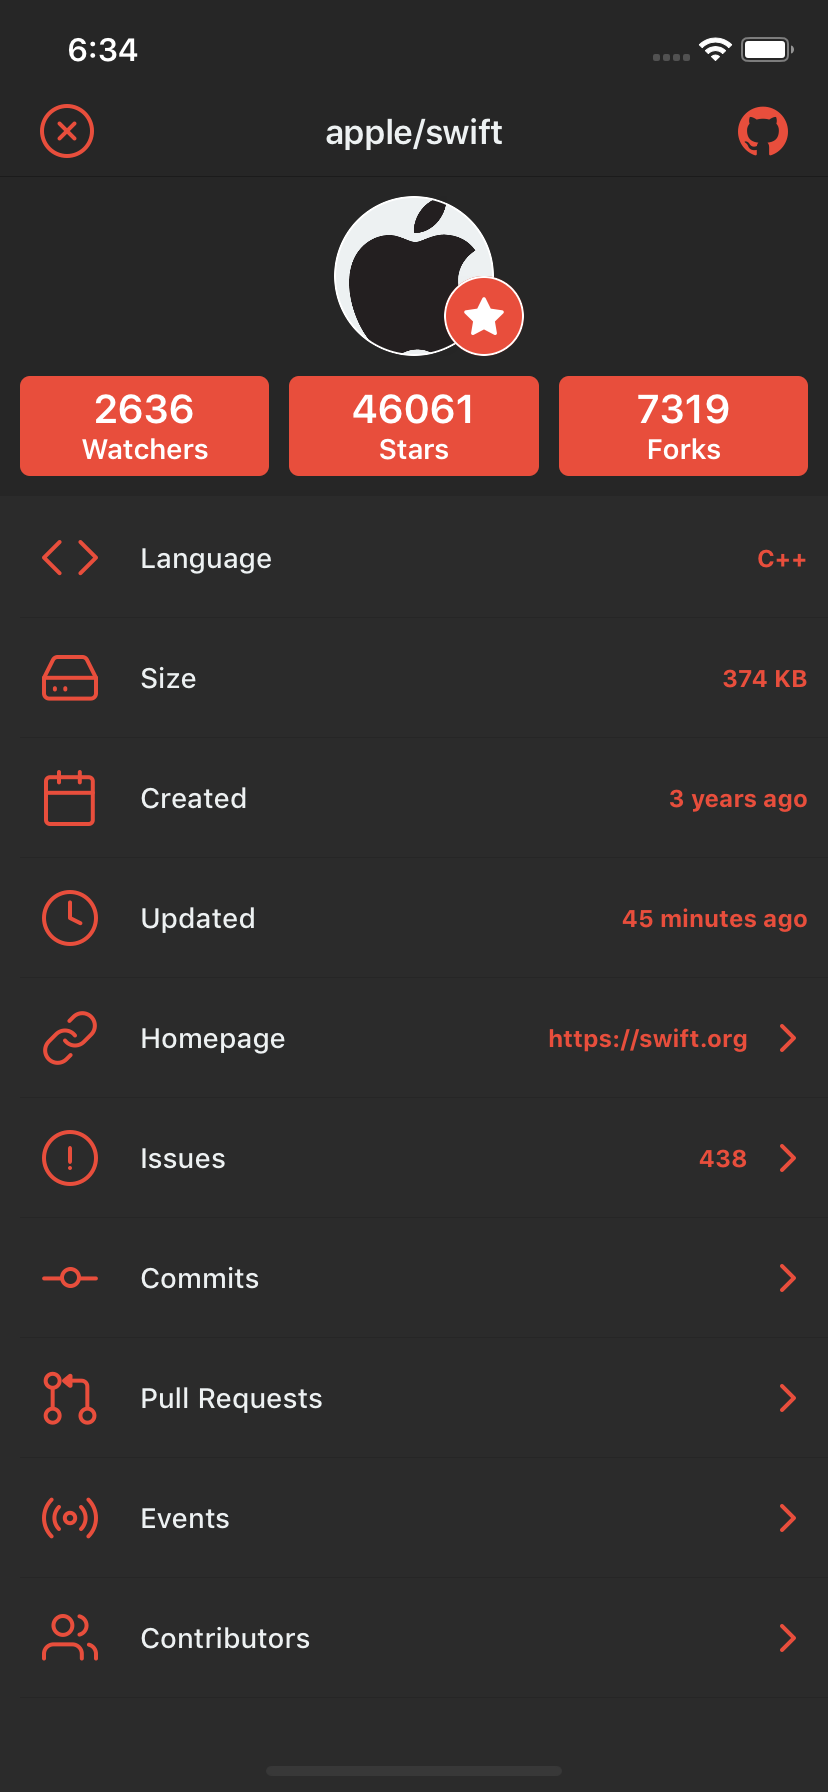
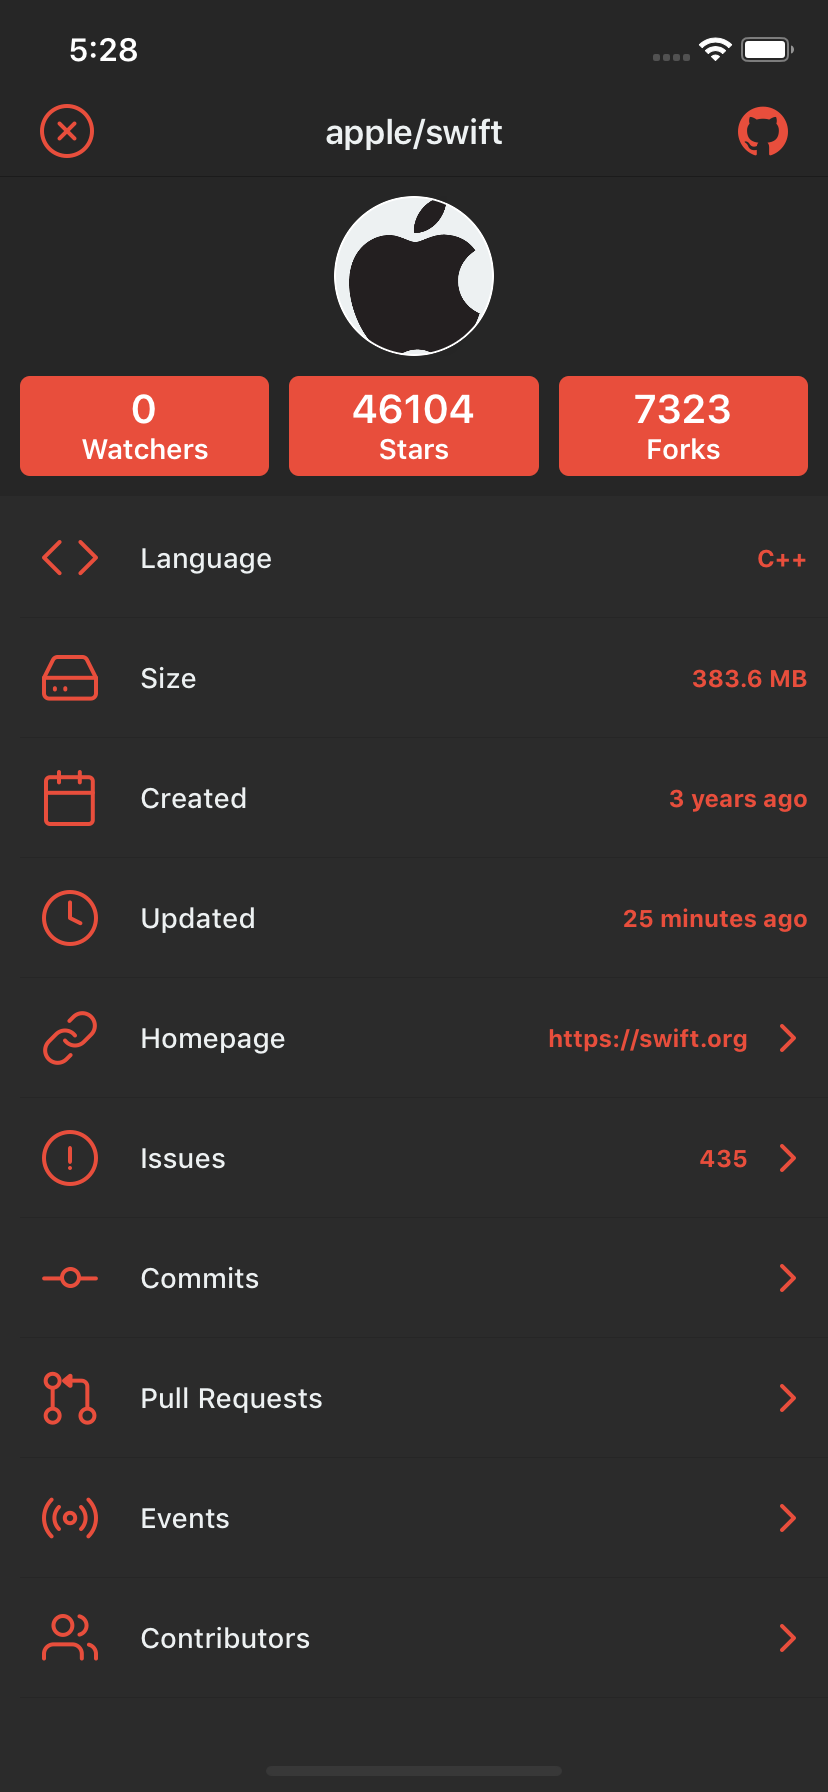
Fixed incorrect size calculation in repository details.

diff --git a/SwiftHub/Modules/Repository Details/RepositoryViewModel.swift b/SwiftHub/Modules/Repository Details/RepositoryViewModel.swift
@@ -164,7 +164,7 @@ class RepositoryViewModel: ViewModel, ViewModelType {
             // Size
             if let size = repository.size {
                 let sizeCellViewModel = RepositoryDetailCellViewModel(with: R.string.localizable.repositorySizeCellTitle.key.localized(),
-                                                                      detail: size.size(),
+                                                                      detail: size.sizeFromKB(),
                                                                       image: R.image.icon_cell_size(),
                                                                       hidesDisclosure: true)
                 items.append(RepositorySectionItem.sizeItem(viewModel: sizeCellViewModel))

diff --git a/SwiftHub/Modules/Contents/ContentCellViewModel.swift b/SwiftHub/Modules/Contents/ContentCellViewModel.swift
@@ -21,7 +21,7 @@ class ContentCellViewModel {
     init(with content: Content) {
         self.content = content
         title = Driver.just("\(content.name ?? "")")
-        detail = Driver.just("\(content.type == .file ? content.size?.size() ?? "" : "")")
+        detail = Driver.just("\(content.type == .file ? content.size?.sizeFromByte() ?? "" : "")")
         image = Driver.just(content.type.image()?.template)
     }
 }

diff --git a/SwiftHub/Extensions/Foundation/Foundation+SwiftHub.swift b/SwiftHub/Extensions/Foundation/Foundation+SwiftHub.swift
@@ -10,7 +10,11 @@ import Foundation
 
 extension Int {
 
-    func size() -> String {
+    func sizeFromKB() -> String {
+        return (self*1024).sizeFromByte()
+    }
+
+    func sizeFromByte() -> String {
         return ByteCountFormatter.string(fromByteCount: Int64(self), countStyle: .file)
     }
 }
